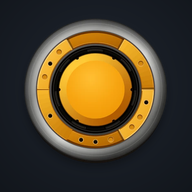
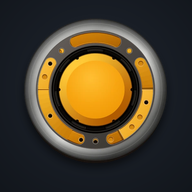
도로싱크 앱 아이콘: 노란 링 위 회색 덮개 복원
Claude-Session: https://claude.ai/code/session_01DURwo2uBEwukpQLRAcFitq

diff --git a/index.html b/index.html
@@ -9,8 +9,8 @@
 <meta property="og:type" content="website">
 <meta property="og:url" content="https://levelinfinikke.github.io/DOROSYNC/">
 <link rel="icon" type="image/png" href="assets/img/calcbtn128.png?v=3">
-<link rel="apple-touch-icon" href="assets/img/app-180.png?v=1">
-<link rel="manifest" href="manifest.webmanifest?v=1">
+<link rel="apple-touch-icon" href="assets/img/app-180.png?v=2">
+<link rel="manifest" href="manifest.webmanifest?v=2">
 <meta name="apple-mobile-web-app-title" content="도로싱크">
 <meta name="application-name" content="도로싱크">
 <meta name="mobile-web-app-capable" content="yes">
